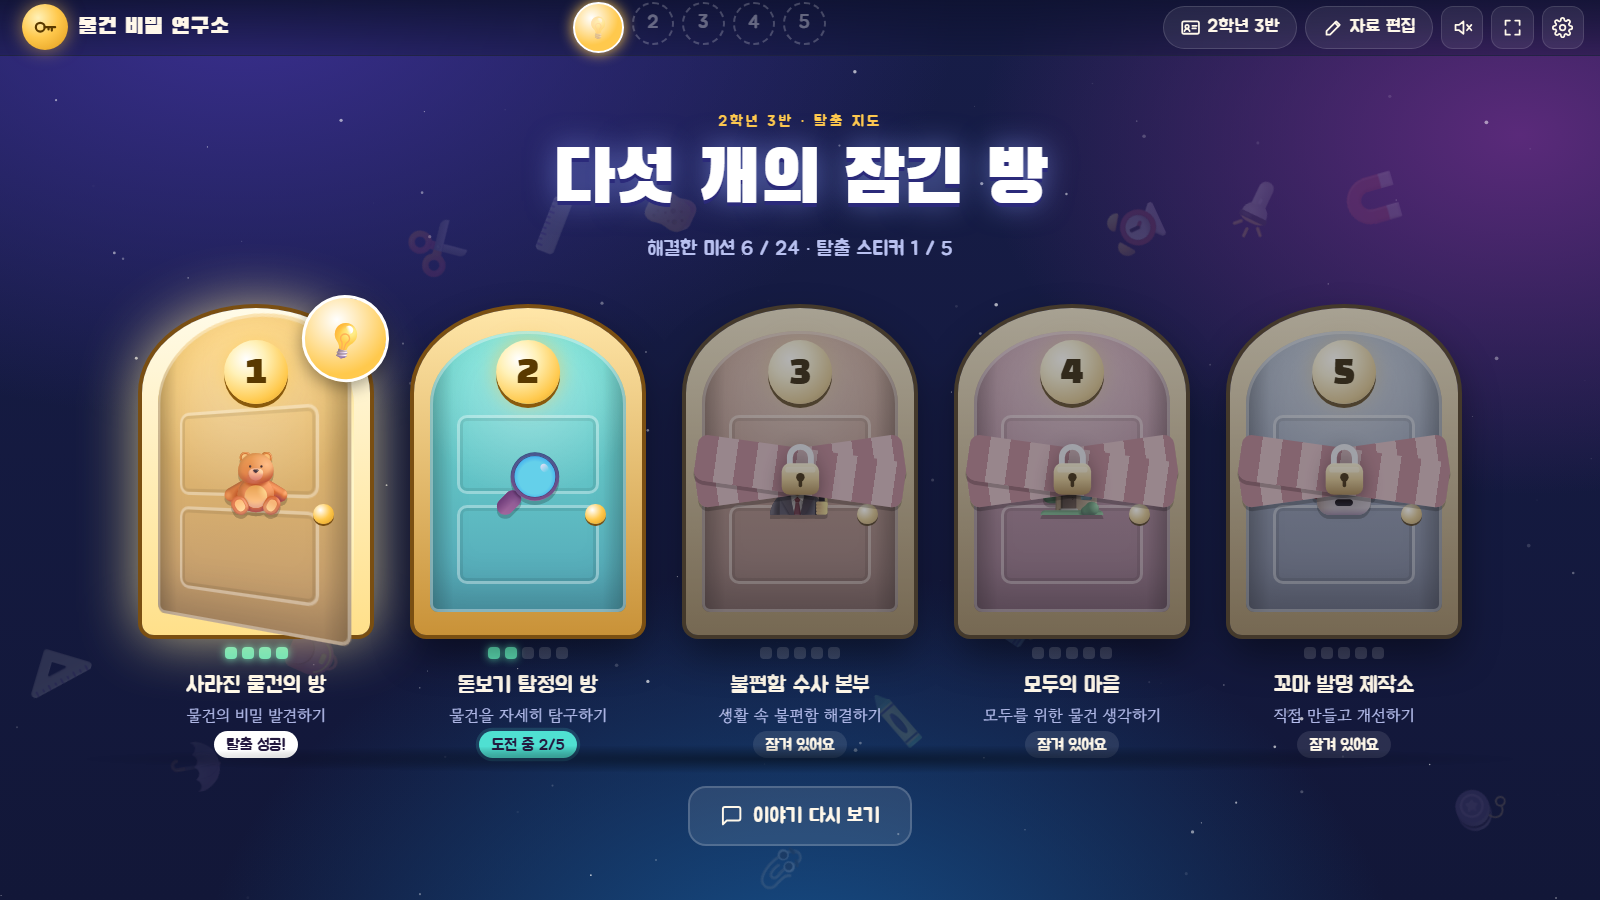
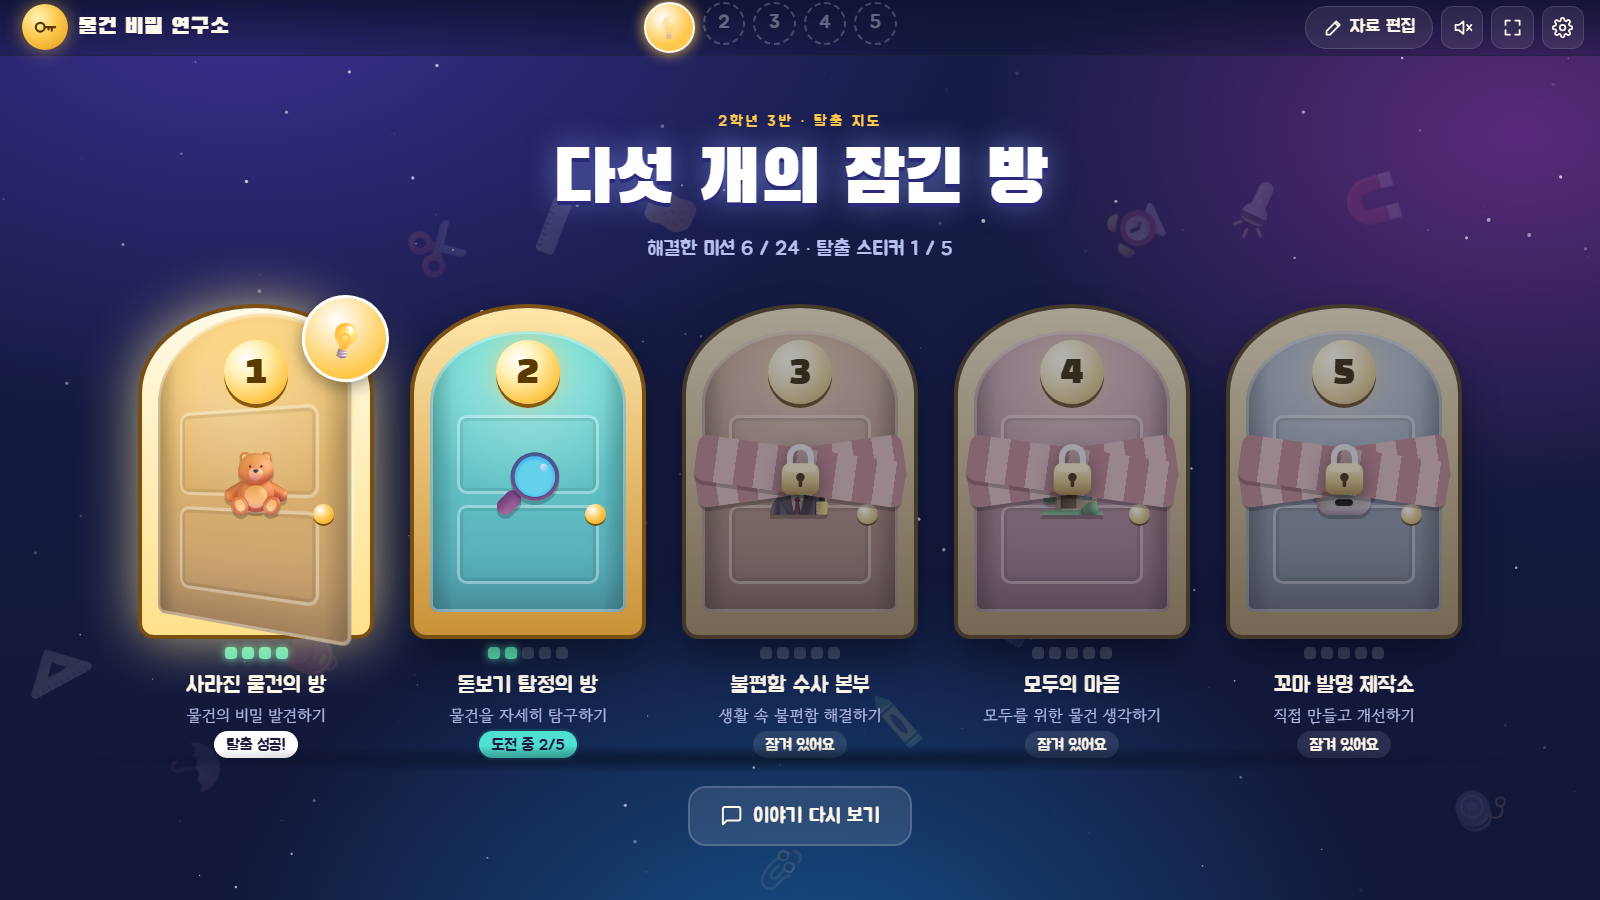
한 반 전용으로 단순화: 반 추가·전환 기능 제거

Changed region(s): [[0.3438, 0.0, 0.5625, 0.0622], [0.7188, 0.0, 0.8125, 0.0622]]

diff --git a/index.html b/index.html
@@ -420,7 +420,6 @@ body.edit .edit-only.grid{display:grid!important}
   <button class="brand" id="brandBtn" title="처음 화면"><span class="bk" id="brandKey"></span><span class="nm" id="brandName">물건 비밀 연구소</span></button>
   <div class="top-stickers" id="topStickers"></div>
   <div class="tools">
-    <button class="chip" id="classChip" title="반 바꾸기"></button>
     <button class="chip" id="editBtn" title="선생님용 자료 편집"></button>
     <button class="icon-btn" id="soundBtn" title="소리"></button>
     <button class="icon-btn" id="fsBtn" title="전체 화면 (F)"></button>
@@ -725,7 +724,6 @@ function renderTop(){
   $('#topStickers').innerHTML = ROOMS.map(r => cls().escaped[r.no]
     ? `<span class="slot got" style="--c:${r.color}" title="${r.no}번 방 ${esc(r.stickerName)}">${r.sticker}</span>`
     : `<span class="slot" title="${r.no}번 방 스티커">${r.no}</span>`).join('');
-  $('#classChip').innerHTML = `${I('card')} ${esc(cls().name)}`;
   $('#editBtn').innerHTML = `${I('pencil')} ${editMode ? '편집 중' : '자료 편집'}`;
   $('#editBtn').classList.toggle('on', editMode);
   $('#soundBtn').innerHTML = I(S.sound ? 'sound' : 'mute');
@@ -1161,16 +1159,11 @@ function openSettings(){
   const m = $('#modal'), c = cls();
   m.innerHTML = `<div class="modal" role="dialog" aria-modal="true" aria-label="설정">
     <div class="modal-head"><h2>선생님 설정</h2><button class="icon-btn" id="xClose">${I('close')}</button></div>
-    <div class="set-sec"><h3>반 관리</h3>
-      <p>반마다 진행 상황(자물쇠·스티커)이 따로 저장돼요. 수업 자료는 모든 반이 함께 써요.</p>
-      <div class="row"><select id="xCls" style="flex:1 1 180px">${S.classes.map(k => `<option value="${k.id}" ${k.id === c.id ? 'selected' : ''}>${esc(k.name)}</option>`).join('')}</select>
-      <button class="btn sm" id="xAdd">${I('plus')} 반 추가</button><button class="btn sm" id="xDelCls">${I('trash')} 이 반 삭제</button></div>
-      <label>반 이름<input id="xName" value="${esc(c.name)}"></label>
-    </div>
-    <div class="set-sec"><h3>요원증</h3>
-      <div class="row"><label style="flex:1 1 220px">연구소 이름<input id="xAgency" value="${esc(S.agency)}"></label>
+    <div class="set-sec"><h3>우리 반과 요원증</h3>
+      <div class="row"><label style="flex:1 1 220px">반 이름 (예: 2학년 3반)<input id="xName" value="${esc(c.name)}"></label>
       <label style="flex:1 1 220px">소속 (예: 새싹초 2학년 3반)<input id="xSchool" value="${esc(S.school)}" placeholder="비우면 반 이름이 들어가요"></label></div>
-      <label>학생 명단 (${esc(c.name)} · 한 줄에 한 명)<textarea id="xRoster" placeholder="김하늘&#10;이바다&#10;박구름">${esc(c.roster)}</textarea></label>
+      <label>연구소 이름<input id="xAgency" value="${esc(S.agency)}"></label>
+      <label>학생 명단 (한 줄에 한 명)<textarea id="xRoster" placeholder="김하늘&#10;이바다&#10;박구름">${esc(c.roster)}</textarea></label>
       <div class="row"><button class="btn sm" id="xPrint">${I('print')} 요원증 미리 인쇄하기</button></div>
     </div>
     <div class="set-sec"><h3>도입 이야기</h3><p>한 줄이 화면 한 장면이에요.</p>
@@ -1178,9 +1171,9 @@ function openSettings(){
       <div class="row"><button class="btn sm" id="xStoryReset">기본 이야기로 되돌리기</button></div>
     </div>
     <div class="set-sec"><h3>진행 상황</h3>
-      <p>지금 반: <b>${esc(c.name)}</b> · 해결한 미션 ${Object.keys(c.done).length}/24 · 스티커 ${stickerCount()}/5<br>
+      <p>해결한 미션 ${Object.keys(c.done).length}/24 · 스티커 ${stickerCount()}/5<br>
       <b>자료 편집</b>을 켜면 잠긴 방에도 들어갈 수 있고, 차시 화면에서 해결을 취소할 수 있어요.</p>
-      <div class="row"><button class="btn sm" id="xResetProg">${I('trash')} 이 반 진행 처음부터</button></div>
+      <div class="row"><button class="btn sm" id="xResetProg">${I('trash')} 진행 처음부터 다시</button></div>
     </div>
     <div class="set-sec"><h3>백업</h3>
       <p>모든 내용(진행 상황, 슬라이드, 파일)은 이 컴퓨터의 이 브라우저에만 저장돼요. 다른 컴퓨터로 옮기거나 혹시 모를 상황에 대비해 가끔 백업 파일로 내보내 두세요.</p>
@@ -1199,17 +1192,10 @@ function openSettings(){
   $('#xClose').onclick = () => { commit(); close(); };
   $('#xSave').onclick = () => { commit(); close(); toast('저장했어요'); };
   m.onclick = e => { if(e.target === m){ commit(); close(); } };
-  $('#xCls').onchange = () => { commit(); S.cur = $('#xCls').value; save(); openSettings(); };
-  $('#xAdd').onclick = () => { commit(); const k = newClass(`${S.classes.length + 1}반`); S.classes.push(k); S.cur = k.id; save(); openSettings(); toast('새 반을 만들었어요. 이름을 바꿔 주세요'); };
-  $('#xDelCls').onclick = async () => {
-    if(S.classes.length === 1) return toast('반이 하나뿐이라 지울 수 없어요');
-    if(!(await ask(`'${esc(cls().name)}'의 진행 기록을 모두 지울까요?`, '지우기'))) return;
-    S.classes = S.classes.filter(k => k.id !== S.cur); S.cur = S.classes[0].id; save(); openSettings();
-  };
   $('#xPrint').onclick = () => { commit(); printCards(); };
   $('#xStoryReset').onclick = () => { $('#xStory').value = DEFAULT_STORY.join('\n'); };
   $('#xResetProg').onclick = async () => {
-    if(!(await ask(`'${esc(cls().name)}'의 자물쇠와 스티커를 모두 처음 상태로 돌릴까요?`, '처음부터'))) return;
+    if(!(await ask('자물쇠와 스티커를 모두 처음 상태로 돌릴까요?', '처음부터'))) return;
     const k = cls(); k.done = {}; k.escaped = {}; save(); openSettings(); toast('처음 상태로 돌렸어요');
   };
   $('#xExport').onclick = () => { commit(); exportBackup(); };
@@ -1243,7 +1229,6 @@ async function importBackup(file){
 /* ---------- 상단 버튼 · 키보드 ---------- */
 function toggleFs(){ try{ if(document.fullscreenElement) document.exitFullscreen(); else document.documentElement.requestFullscreen().catch(() => {}); }catch(e){} }
 $('#brandBtn').onclick = () => go('home');
-$('#classChip').onclick = () => openSettings();
 $('#setBtn').onclick = () => openSettings();
 $('#fsBtn').onclick = toggleFs;
 $('#soundBtn').onclick = () => { S.sound = !S.sound; save(); renderTop(); if(S.sound) SFX.unlock(); };

diff --git a/guide.html b/guide.html
@@ -113,7 +113,7 @@ footer a{color:var(--gold)}
 </header>
 
 <nav class="toc" aria-label="목차"><div class="wrap">
-  <a href="#about">수업 흐름</a><a href="#shots">화면 둘러보기</a><a href="#start">시작하기</a><a href="#materials">수업 자료 넣기</a><a href="#class">수업 진행</a><a href="#cards">반·요원증</a><a href="#backup">백업</a><a href="#plan">차시 구성표</a><a href="#faq">자주 묻는 질문</a>
+  <a href="#about">수업 흐름</a><a href="#shots">화면 둘러보기</a><a href="#start">시작하기</a><a href="#materials">수업 자료 넣기</a><a href="#class">수업 진행</a><a href="#cards">요원증</a><a href="#backup">백업</a><a href="#plan">차시 구성표</a><a href="#faq">자주 묻는 질문</a>
 </div></nav>
 
 <main>
@@ -149,7 +149,7 @@ footer a{color:var(--gold)}
   <p class="lead">설치나 회원가입은 필요 없어요. 교실 컴퓨터의 크롬이나 엣지에서 열면 돼요.</p>
   <ol class="steps">
     <li><div><h3>앱 열기</h3><p><a href="./">앱 주소</a>를 교실 컴퓨터 브라우저에서 열고 즐겨찾기에 추가해 두세요. 인터넷이 불안정한 교실이라면 앱 화면에서 <kbd>Ctrl</kbd>+<kbd>S</kbd>로 저장한 파일을 열어도 똑같이 동작해요.</p></div></li>
-    <li><div><h3>반 이름과 학생 명단 넣기</h3><p>오른쪽 위 톱니바퀴(설정)에서 반 이름, 소속(학교·학년·반), 학생 명단을 넣어요. 여러 반을 가르치시면 <b>반 추가</b>로 반마다 진행 상황을 따로 관리할 수 있어요.</p></div></li>
+    <li><div><h3>반 이름과 학생 명단 넣기</h3><p>오른쪽 위 톱니바퀴(설정)에서 반 이름, 소속(학교·학년·반), 학생 명단을 넣어요.</p></div></li>
     <li><div><h3>수업 자료 넣기</h3><p>위쪽 <b>자료 편집</b>을 켜고 차시마다 PPT, 게임 링크, 활동지를 넣어요. 미리 다 넣지 않아도 돼요. 수업 전날 그 차시만 넣어도 충분해요.</p></div></li>
     <li><div><h3>첫 시간: 이야기 시작하기</h3><p><b>이야기 시작하기</b>를 누르고 <kbd>→</kbd> 또는 <kbd>스페이스</kbd>로 넘기면 마지막에 1번 방으로 들어가요. 전체 화면은 <kbd>F</kbd>.</p></div></li>
   </ol>
@@ -188,10 +188,10 @@ footer a{color:var(--gold)}
 </div></section>
 
 <section id="cards"><div class="wrap">
-  <h2>반 관리와 요원증</h2>
+  <h2>우리 반과 요원증</h2>
   <div class="two">
     <div>
-      <p>설정에서 <b>반 추가</b>를 누르면 반마다 자물쇠와 스티커가 따로 기록돼요. 수업 자료는 모든 반이 함께 써요. 오른쪽 위의 반 이름을 눌러 언제든 바꿀 수 있어요.</p>
+      <p>설정의 <b>우리 반과 요원증</b>에서 반 이름, 소속, 연구소 이름, 학생 명단을 넣어요. 반 이름은 시작 화면과 탈출 지도에, 소속은 요원증에 들어가요.</p>
       <p>요원증은 <b>최종 탈출 화면</b>이나 <b>설정 → 요원증 미리 인쇄하기</b>에서 인쇄해요. 학생 명단 한 줄이 요원증 한 장이 되고, 명단이 비어 있으면 이름 칸이 빈 요원증 8장이 나와요.</p>
       <p class="note"><b>인쇄 팁</b> · 인쇄 창의 "추가 설정"에서 <b>배경 그래픽</b>을 켜야 색이 나와요. 두꺼운 종이에 인쇄해서 코팅하면 진짜 요원증 같아요. 사진 칸에는 학생이 자기 얼굴을 그려 넣어요.</p>
     </div>

diff --git a/README.md b/README.md
@@ -12,7 +12,6 @@
 
 - 도입 이야기 → 방 입장(문 열림 연출) → 차시별 미션 → 자물쇠 열기 → 탈출 성공(열쇠·팡파르·스티커) → 다음 방
 - 차시마다 PPT(이미지/PDF), 구글 슬라이드·캔바·유튜브 링크, 게임 링크, 활동지 파일을 넣고 앱 안에서 바로 수업
-- 반을 여러 개 만들어 반별 진행 관리
 - 학생 명단으로 요원증 일괄 인쇄 (A4 한 장에 8장)
 - 백업 파일로 다른 컴퓨터에 옮기기
 
